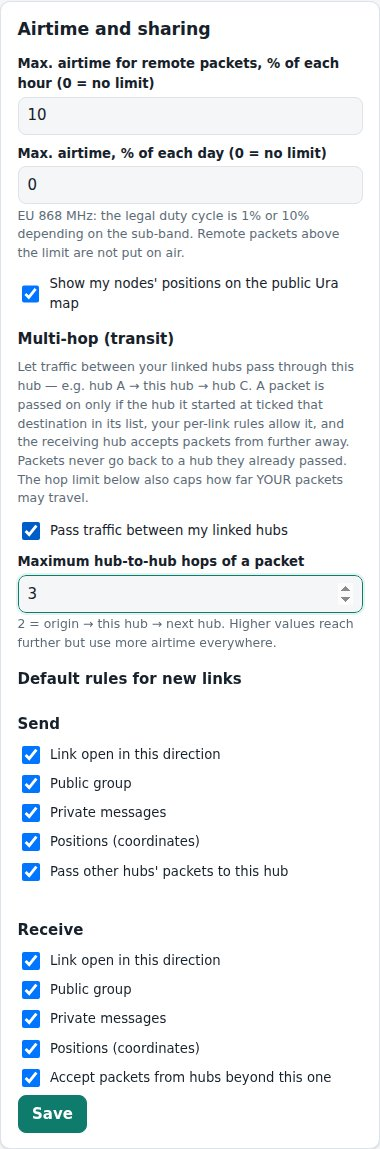
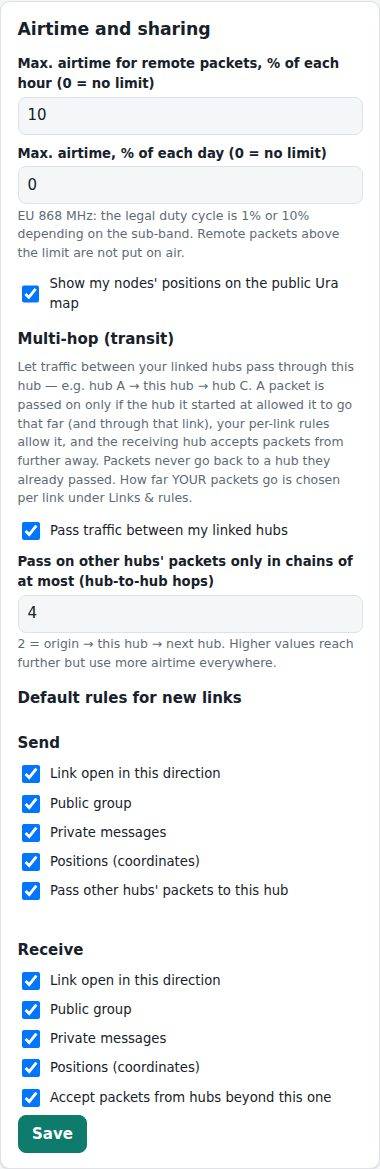
Docs: new screenshots (per-link reach, split-bar statistics, advanced settings), guide/README/operations updated; demo screenshot scripts

diff --git a/hub/web/app.js b/hub/web/app.js
@@ -258,8 +258,8 @@ Ura.add({
   "reach.none_ticked": { en: "Nothing ticked: your packets stop at {x}. Tick the links of {x} they may continue on.", sq: "Asgjë e shënuar: paketat tuaja ndalojnë te {x}. Shënoni lidhjet e {x} ku mund të vazhdojnë." },
   "reach.all_links": { en: "Through every link {x} offers.", sq: "Përmes çdo lidhjeje që ofron {x}." },
   "tr.title": { en: "Multi-hop (transit)", sq: "Shumë-hop (tranzit)" },
-  "tr.hint": { en: "Let traffic between your linked hubs pass through this hub — e.g. hub A → this hub → hub C. A packet is passed on only if the hub it started at ticked that destination in its list, your per-link rules allow it, and the receiving hub accepts packets from further away. Packets never go back to a hub they already passed. How far YOUR packets go is chosen per link under Links & rules.",
-               sq: "Lejo që trafiku ndërmjet hub-eve të tua të lidhura të kalojë përmes këtij hub-i — p.sh. hub-i A → ky hub → hub-i C. Një paketë kalohet vetëm nëse hub-i ku nisi e ka shënuar atë destinacion në listën e tij, rregullat e tua për lidhjen e lejojnë dhe hub-i marrës pranon paketa nga më larg. Paketat nuk kthehen kurrë te një hub ku kanë kaluar. Kufiri më poshtë kufizon edhe sa larg mund të shkojnë paketat E TUA." },
+  "tr.hint": { en: "Let traffic between your linked hubs pass through this hub — e.g. hub A → this hub → hub C. A packet is passed on only if the hub it started at allowed it to go that far (and through that link), your per-link rules allow it, and the receiving hub accepts packets from further away. Packets never go back to a hub they already passed. How far YOUR packets go is chosen per link under Links & rules.",
+               sq: "Lejo që trafiku ndërmjet hub-eve të tua të lidhura të kalojë përmes këtij hub-i — p.sh. hub-i A → ky hub → hub-i C. Një paketë kalohet vetëm nëse hub-i ku nisi e ka lejuar të shkojë aq larg (dhe përmes asaj lidhjeje), rregullat e tua për lidhjen e lejojnë dhe hub-i marrës pranon paketa nga më larg. Paketat nuk kthehen kurrë te një hub ku kanë kaluar. Sa larg shkojnë paketat E TUA zgjidhet për çdo lidhje te Lidhjet & rregullat." },
   "tr.on": { en: "Pass traffic between my linked hubs", sq: "Kalo trafikun ndërmjet hub-eve të mia të lidhura" },
   "tr.hops": { en: "Pass on other hubs' packets only in chains of at most (hub-to-hub hops)", sq: "Kalo paketat e hub-eve të tjerë vetëm në zinxhirë deri në (kalime hub-në-hub)" },
   "tr.hops.hint": { en: "2 = origin → this hub → next hub. Higher values reach further but use more airtime everywhere.", sq: "2 = origjina → ky hub → hub-i tjetër. Vlera më të larta arrijnë më larg, por përdorin më shumë kohë në ajër kudo." },

diff --git a/tests/demo/docshots.py b/tests/demo/docshots.py
@@ -1,0 +1,39 @@
+"""Screenshots of the demo network for the GitHub documentation (docs/img).
+Needs: demo_network.py against a test server on 8298/8299, and demo_hub.py run against a radio-less hub on 8187."""
+import os
+from playwright.sync_api import sync_playwright
+S = os.environ.get("URA_DEMO_SERVER_WEB", "https://127.0.0.1:8299")
+H = os.environ.get("URA_DEMO_HUB", "https://127.0.0.1:8187")
+OUT = os.environ.get("URA_DEMO_OUT", "/tmp/ura-demo/img")
+os.makedirs(OUT, exist_ok=True); errs = []
+J = dict(type="jpeg", quality=82)
+with sync_playwright() as pw:
+    br = pw.chromium.launch()
+    p = br.new_context(ignore_https_errors=True, viewport={"width": 1400, "height": 860}).new_page()
+    p.on("pageerror", lambda e: errs.append(str(e)))
+    p.goto(S + "/#/"); p.wait_for_selector("#liveon"); p.wait_for_timeout(9000)
+    for _ in range(40):
+        n = p.evaluate("() => { let n = 0; mapObj.eachLayer(l => { if (l instanceof L.CircleMarker && !l.options.interactive) n++; }); return n; }")
+        if n >= 2: break
+        p.wait_for_timeout(300)
+    p.screenshot(path=f"{OUT}/map-world.jpg", **J)
+    p.evaluate("() => { mapObj.setView([53.55, 9.99], 10); }"); p.wait_for_timeout(5000)
+    p.evaluate("""() => { let best = null, bd = 1e9; const c = L.latLng(53.62, 9.93); mapObj.eachLayer(l => { if (l instanceof L.CircleMarker && l.options.radius === 6) { const d = l.getLatLng().distanceTo(c); if (d < bd) { bd = d; best = l; } } }); if (best) best.openPopup(); }""")
+    p.wait_for_timeout(1500); p.screenshot(path=f"{OUT}/map-nodes.jpg", **J)
+    p.goto(S + "/#/hubs"); p.reload(); p.wait_for_selector("text=XB-HBR"); p.click("table a >> text=XB-HBR")
+    p.wait_for_selector("text=About this hub"); p.wait_for_timeout(5000)
+    p.screenshot(path=f"{OUT}/server-hub.jpg", full_page=True, clip={"x": 0, "y": 0, "width": 1400, "height": 1180}, **J)
+    p.goto(S + "/#/stats"); p.reload(); p.wait_for_selector("text=Traffic between hubs"); p.wait_for_timeout(1500)
+    p.screenshot(path=f"{OUT}/server-stats.jpg", full_page=True, clip={"x": 0, "y": 0, "width": 1400, "height": 1100}, **J)
+    q = br.new_context(ignore_https_errors=True, viewport={"width": 1400, "height": 860}).new_page()
+    q.on("pageerror", lambda e: errs.append(str(e)))
+    q.goto(H + "/#/"); q.wait_for_selector("#pw"); q.fill("#pw", "DemoHub-123"); q.click("#lbtn"); q.wait_for_selector("text=Server connection")
+    q.goto(H + "/#/links"); q.reload(); q.wait_for_selector("select[data-reach]"); q.wait_for_timeout(1000)
+    q.screenshot(path=f"{OUT}/hub-links.jpg", full_page=True, **J)
+    q.goto(H + "/#/settings"); q.reload(); q.wait_for_selector("#tron"); q.add_style_tag(content="header.top{position:static !important}"); q.wait_for_timeout(800)
+    q.locator("#tron").locator("xpath=ancestor::div[contains(@class,'card')][1]").screenshot(path=f"{OUT}/hub-settings.jpg", **J)
+    q.click("#advform details[data-group='adv.g.radio'] summary"); q.click("#advform details[data-group='adv.g.server'] summary")
+    q.fill("[data-adv=keepalive_s]", "45"); q.wait_for_timeout(300)
+    q.locator("#advform").locator("xpath=ancestor::div[contains(@class,'card')][1]").screenshot(path=f"{OUT}/hub-advanced.jpg", **J)
+    br.close()
+print("errors", errs)

diff --git a/tests/demo/demo_hub.py b/tests/demo/demo_hub.py
@@ -1,0 +1,39 @@
+"""Radio-less demo hub "Forest mesh": join the demo server, link to Harbour mesh, set per-link rules."""
+import json, ssl, sys, time, urllib.request, http.cookiejar
+ctx = ssl.create_default_context(); ctx.check_hostname = False; ctx.verify_mode = ssl.CERT_NONE
+def client(base):
+    op = urllib.request.build_opener(urllib.request.HTTPCookieProcessor(http.cookiejar.CookieJar()), urllib.request.HTTPSHandler(context=ctx))
+    def call(path, body=None):
+        req = urllib.request.Request(base + path, data=json.dumps(body).encode() if body is not None else None,
+                                     headers={"Content-Type": "application/json"}, method="POST" if body is not None else "GET")
+        try: return json.loads(op.open(req, timeout=30).read())
+        except urllib.error.HTTPError as e: return json.loads(e.read())
+    return call
+import os
+h = client(os.environ.get("URA_DEMO_HUB", "https://127.0.0.1:8187")); srv = client(os.environ.get("URA_DEMO_SERVER_WEB", "https://127.0.0.1:8299"))
+h("/api/setup", {"password": "DemoHub-123"}); h("/api/login", {"password": "DemoHub-123"})
+h("/api/hub", {"hub": {"name": "Forest mesh", "email": "forest@example.org", "country": "XR", "city": "FOR",
+                       "location_mode": "manual", "lat": 60.17, "lon": 24.94, "description": "Demo hub — Forest mesh."}})
+h("/api/hub", {"transit": {"enabled": True, "max_hops": 4}})
+A = os.environ.get("URA_DEMO_SERVER", "127.0.0.1:8298")
+fp = h("/api/server/check", {"address": A})["fingerprint"]
+h("/api/server/trust", {"address": A, "fingerprint": fp})
+hid = h("/api/server/join", {"address": A})["hub_id"]; print("joined", hid)
+srv("/api/login", {"password": "DemoAdmin-123"}); print("approve", srv(f"/api/admin/hub/{hid}/approve", {}))
+time.sleep(5)
+s = h("/api/status")
+hbr = [x for x in s["directory"] if x["code"] == "XB-HBR"][0]
+print("request", h("/api/links/request", {"to": hbr["id"]}))
+for _ in range(20):
+    time.sleep(2)
+    s = h("/api/status")
+    if any(l["state"] == "active" for l in s["links"]): break
+hbr = [x for x in s["directory"] if x["code"] == "XB-HBR"][0]
+names = {x["id"]: x["code"] for x in s["directory"]}
+offered = (hbr.get("rules") or {}).get("transit_to", [])
+print("HBR offers:", [names.get(i) for i in offered])
+rules = {"send": {"on": True, "public": True, "private": True, "positions": True, "groups": [], "transit": True, "reach": 1,
+                  "onward_to": [i for i in offered if names.get(i) in ("XA-MTN", "XC-CTY")]},
+         "receive": {"on": True, "public": True, "private": True, "positions": False, "groups": [], "from_beyond": True}}
+print("rules", h("/api/rules", {"peer": hbr["id"], "rules": rules}))
+print("links", [(l["peer_code"], l["state"], l["e2e"]["state"]) for l in h("/api/status")["links"]])

diff --git a/tests/demo/demo_network.py b/tests/demo/demo_network.py
@@ -38,7 +38,7 @@ def web(path, body=None):
 
 
 def rule(onward=()):
-    s = {"on": True, "public": True, "groups": ["Hikers"], "private": True, "positions": True, "onward_to": list(onward), "transit": True}
+    s = {"on": True, "public": True, "groups": ["Hikers"], "private": True, "positions": True, "onward_to": list(onward), "reach": 1 if onward else 0, "transit": True}
     r = {"on": True, "public": True, "groups": ["Hikers"], "private": True, "positions": True, "from_beyond": True}
     return {"send": s, "receive": r}
 

diff --git a/docs/GUIDE.md b/docs/GUIDE.md
@@ -87,9 +87,10 @@ the link turns red and traffic stops until the operator compares the new code an
 ### Step 9 — Set your rules
 For every link, separately for **Send** (what you pass to the partner) and **Receive** (what you
 let onto your air from the partner): link open in this direction, public channel, each private
-group, private messages, positions, multi-hop. Details in section 3.
+group, private messages, positions, and **how far your packets may go through this partner**
+(only to it, 1, 2 … hubs further, or anywhere — chosen per link, see section 4). Details in section 3.
 
-![A hub's Links & rules page: end-to-end safety code, send and receive rules, multi-hop destinations](img/hub-links.jpg)
+![A hub's Links & rules page: end-to-end safety code, send and receive rules, how far packets may go through this partner](img/hub-links.jpg)
 
 ### Step 10 — Confirm that it works
 - **Diagnostics** (*Radio* page): pick any node — local or in the other mesh — and send a
@@ -99,8 +100,13 @@ group, private messages, positions, multi-hop. Details in section 3.
   get the node's answer.
 - **Phones:** remote nodes appear in the Meshtastic app's node list and, if they share a position,
   on its map. Tap one, *Send message* — the app shows *delivered* when the remote node confirms.
-- **Counters** on the Status page and per link (*sent, received, put on air,* and *why* anything
-  was stopped).
+- **Status page:** at the top a map of the nodes **your own radio** hears (nodes of other hubs are
+  in the lists below it), then the radio, server and link state, *last message from the radio*,
+  and counters (*sent, received, put on air,* and per link *why* anything was stopped). Inside
+  the page the mouse wheel scrolls the page; **Ctrl + wheel** (⌘ on a Mac) zooms the map, on a
+  phone **two fingers** move it.
+- **Radio watchdog:** a connected radio reports to its hub at least every minute. If it stays
+  silent for 10 minutes (adjustable), the hub restarts it and says so on the Status page.
 - **The server map** shows the link, and dots run along it whenever packets pass.
 
 ---
@@ -195,7 +201,8 @@ key in without the operators noticing — the safety codes would no longer match
 
 - **Map** — all hubs, their nodes (heard in the last days) and links; live packet dots.
 - **Hubs** — every hub with its code, status and links; each hub page shows its rules and traffic.
-- **Statistics** — per link, packets in both directions over 24 hours, 7 or 30 days.
+- **Statistics** — one chart per link over 24 hours, 7 or 30 days: one bar per hour (or day),
+  split in two colours for the two directions; hovering a bar shows both counts and their share.
 - **Complaints** — anyone can report a problem with a hub or node; every case and its answer is
   public.
 
@@ -210,6 +217,11 @@ key in without the operators noticing — the safety codes would no longer match
 - Updates: `git pull` and restart the service — see the install guides.
 - Backups: the hub's `identity.key` and `config.json`; the server's database and certificate.
 - Troubleshooting, counters, airtime: [OPERATIONS.md](OPERATIONS.md).
+- **Advanced settings** (*Settings*, bottom): every operational value, grouped into sections
+  (radio, nodes and location, connection to the server, security and login, map and website).
+  Changed values are marked and can be reset to their default with one click.
+
+![Advanced settings on a hub: sections, units, ranges, changed values marked](img/hub-advanced.jpg)
 - MeshCore support is planned; the architecture (hubs decide, server relays sealed boxes) stays the
   same.
 

diff --git a/README.md b/README.md
@@ -66,20 +66,23 @@ statistics. It holds no key that opens the traffic.
 ## Features
 
 **Hub website** (`https://<hub>:8091`, owner only)
-- **Status** — radio, server connection, counters, airtime, nodes heard locally and nodes from
-  each partner hub (searchable lists, map).
+- **Status** — map of the nodes this hub's own radio hears first, then radio (with watchdog),
+  server connection, counters, airtime, and searchable lists of local nodes and of each partner
+  hub's nodes.
 - **Links & rules** — request/accept links; per link and direction: public channel, private
-  groups, private messages, positions, multi-hop destinations; end-to-end safety code.
+  groups, private messages, positions, and how far your packets may go through that partner
+  (multi-hop, decided per link); end-to-end safety code.
 - **Radio** — USB or Wi-Fi/IP connection, one-click *Prepare radio for Ura*, **Diagnostics**
   (private message with delivery check, traceroute, telemetry and position requests, channel test).
 - **Device settings** — program the radio from the browser: name, fixed position, channels with
   secure random keys, and every Meshtastic setting.
 - **Settings** — hub details and location (from the radio or manual), server registration with
-  certificate check, airtime limit, multi-hop, and every operational value as an advanced setting.
+  certificate check, airtime limit, multi-hop, and every operational value as an advanced setting
+  (grouped in sections, changed values marked).
 
 **Server website** (`https://<server>`, public + admin)
 - World map of hubs, nodes and links with **live traffic**; hub and node pages; statistics per
-  link (both directions); list of hubs and their codes; transparent complaints process.
+  link (one bar per hour, split by direction); list of hubs and their codes; transparent complaints process.
 - Admin: approve or remove hubs, handle complaints, advanced settings.
 
 **Security** — pinned TLS to the server, per-hub keys (stored hashed), end-to-end encryption
@@ -94,7 +97,9 @@ Details: [docs/ARCHITECTURE.md](docs/ARCHITECTURE.md#security-model).
 | ![Nodes heard by one hub, on the live map](docs/img/map-nodes.jpg) | ![Statistics per link, both directions](docs/img/server-stats.jpg) |
 | *Live map: the nodes one hub hears* | *Statistics: every link, both directions* |
 | ![A hub's Links & rules page](docs/img/hub-links.jpg) | ![A hub's public page with its rules](docs/img/server-hub.jpg) |
-| *Hub: safety code, send/receive rules, multi-hop destinations* | *Server: a hub's public page — links, published rules, traffic, nodes* |
+| *Hub: safety code, send/receive rules, how far packets may go (per link)* | *Server: a hub's public page — links, published rules, traffic, nodes* |
+| ![A hub's multi-hop settings](docs/img/hub-settings.jpg) | ![A hub's advanced settings](docs/img/hub-advanced.jpg) |
+| *Hub: airtime, multi-hop, default rules* | *Hub: advanced settings in sections* |
 
 *Screenshots show a demonstration network with made-up hubs.*
 

diff --git a/docs/OPERATIONS.md b/docs/OPERATIONS.md
@@ -32,6 +32,12 @@ away, transit not allowed, radio not connected.
 - Status → *Heard by radio* stays 0 and *What the radio hears* shows little channel use: the radio
   hears nobody — place it higher or use a better antenna.
 - Links & rules → is the link **active** and the send rule on for that kind of traffic?
+- Status → *Last message from the radio*: a connected radio reports at least every minute. If this
+  grows to minutes, the radio has stopped giving the hub its packets although the USB/IP connection
+  is still open. The **watchdog** restarts such a radio after 10 minutes of silence (Advanced
+  settings → Radio) and shows a warning on the Status page. If the warning keeps coming back, make
+  sure nothing else is connected to that radio (an app over Wi-Fi or Bluetooth takes the packets
+  meant for the hub) and check its power supply.
 
 **"Last heard" times are wrong / nodes missing on the map**
 The radio's clock was wrong (no GPS, no internet). The hub sets it every hour (Advanced setting);
@@ -77,5 +83,6 @@ See the update and backup sections of [INSTALL-HUB.md](INSTALL-HUB.md) and
 python3 hub/meshcrypto.py                       # crypto test vectors
 tests/run_test.sh && python tests/ui_test.py    # full browser test (Playwright), test ports 8196–8199
 python tests/multihop_test.py                   # three hubs, multi-hop rules (needs the meshtastic package)
+python tests/reach_test.py                      # five hubs, per-link reach (how far packets go through each partner)
 tests/live/diag.sh <hub-url> <node> dm trace    # live: diagnostics through a real hub (URA_HUB_PW)
 ```
